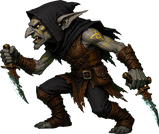
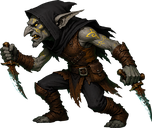
[equilibrage] Gobelins calés sur la TÊTE (même taille réelle, base = gobelin normal)
À hauteur égale, les poses faussaient la taille (le voleur accroupi paraissait
plus grand). On cale désormais chaque gobelin sur la taille du VISAGE, en prenant
le gobelin normal comme référence : voleur 134->128, chaman 200->224 (son grand
bâton dépasse au-dessus, mais son visage matche). Portrait du chaman recadré sur
sa tête (qui est basse dans l'image).

Claude-Session: https://claude.ai/code/session_01AZD9AfytCUWGMcS4VfpH7V

diff --git a/jeu/data/ennemis.js b/jeu/data/ennemis.js
@@ -82,10 +82,10 @@ export const ENNEMIS = [
     // Skin DÉDIÉ : illustration fournie (fond vert détouré par preparer_skin.py).
     // Rendue vivante par le CODE (image fixe + effets) — encapuchonné, deux dagues.
     planche: "images/ennemis/gobelin-vif.png",
-    portrait: { sx: 8, sy: 3, sw: 67, sh: 67 }, // la tête encapuchonnée (file des tours)
+    portrait: { sx: 8, sy: 3, sw: 64, sh: 64 }, // la tête encapuchonnée (file des tours)
     sprite: {
-      caseL: 159,
-      caseH: 134,   // même taille que les autres gobelins (petite créature)
+      caseL: 152,
+      caseH: 128,   // calé sur la TÊTE (même visage que les autres gobelins)
       statique: true,  // une seule image (frame 0) ; animation 100 % par le code
       anims: {
         idle:    { frames: [0], ips: 1, boucle: true },
@@ -116,10 +116,10 @@ export const ENNEMIS = [
     // Skin DÉDIÉ : illustration fournie (fond vert détouré par preparer_skin.py).
     // Vrai « lanceur de sorts » : bâton à crâne, robe sombre. Rendu lisse.
     planche: "images/ennemis/gobelin-chaman.png",
-    portrait: { sx: 6, sy: 4, sw: 52, sh: 52 }, // la tête (file des tours)
+    portrait: { sx: 52, sy: 28, sw: 58, sh: 58 }, // la tête (basse : le bâton occupe le haut)
     sprite: {
-      caseL: 124,
-      caseH: 182,   // même gabarit de créature ; le bâton dépasse au-dessus
+      caseL: 153,
+      caseH: 224,   // calé sur la TÊTE (même visage) ; le grand bâton dépasse au-dessus
       statique: true,  // une seule image (frame 0) ; animation 100 % par le code
       anims: {
         idle:    { frames: [0], ips: 1, boucle: true },
